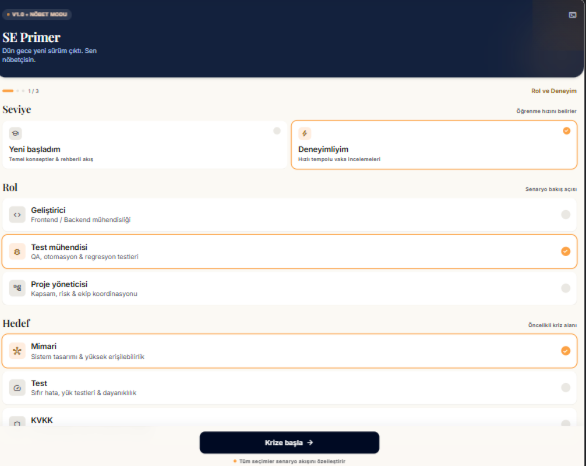
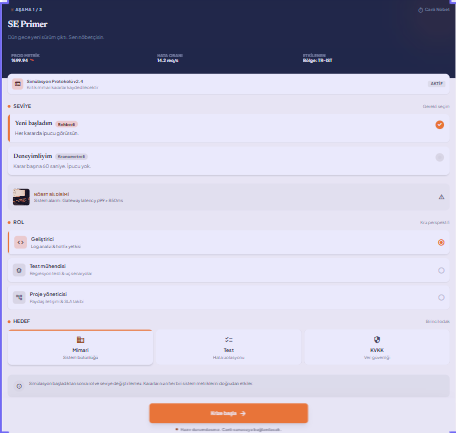
Adım 2: temiz Stitch ekranları (giriş, karar, iyi ve kötü son)

diff --git a/tasarim/duzeltme_istemleri.md b/tasarim/duzeltme_istemleri.md
@@ -1,0 +1,19 @@
+# Stitch Düzeltme İstemleri (spec'e uyum)
+
+Her istemi Stitch'te ilgili ekran seçiliyken ayrı ayrı gönder. Önce 1. ekran, sonra 2 ve 3.
+
+## 1. Giriş ekranı
+
+> Edit the onboarding screen to match this spec exactly. Keep the navy hero, title "SE Primer" and subtitle "Dün gece yeni sürüm çıktı. Sen nöbetçisin." Remove all extra descriptions and icons. Question groups with exactly these options: "Seviye": "Yeni başladım" (subtitle: "Her kararda ipucu görürsün."), "Deneyimliyim" (subtitle: "Karar başına 60 saniye. İpucu yok."). "Rol": "Geliştirici", "Test mühendisi", "Proje yöneticisi" (no subtitles). "Hedef": "Mimari", "Test", "KVKK" (no subtitles). Bottom button "Krize başla". All UI text in Turkish.
+
+## 2. Karar sahnesi
+
+> Edit the decision screen to match this spec exactly. Remove time estimates ("Tahmini süre"), risk badges ("Yüksek Risk"), the "Vaka Danışmanı" label and any extra metrics or text not listed here. Top bar: clock "08:07", stepper "Karar 1 / 3", chips "Sistem: ayakta" and "Veri: güvende". Scenario card: "Dün gece yeni sürüm çıktı. 300 hasta bekliyor." Amber label "KARAR 1 · MİMARİ", question "Canlı sistem çöktü. Ne yaparsın?". Two option cards with exactly these labels and no extra text: "A) Eski sürüme geri dön" and "B) Canlıda yama yap". Tutor card titled "Tutor", with the message "Geri dönmeden önce veritabanı şemasının değişip değişmediğini nasıl anlarsın?" and input "Tutora bir soru sor…". Bottom snackbar "Geri al" with a 3-second countdown bar. All UI text in Turkish.
+
+## 3a. Sonuç: iyi son
+
+> Edit the good ending screen to match this spec exactly. Remove points (+40, +50), the "Kazanılan Yetkinlik" card, all metrics (erişilebilirlik, veri kaybı, KVKK uyumu), the simulation evaluation, incident codes and timelines. Keep only: light blue banner (#E3EEF9) with blue border (#2B6CB0), large amber clock "08:25", text "Sistem ayakta, veri güvende", three summary chips "Mimari: Geri dönüldü", "Test: Kısa test koşuldu", "KVKK: Maskelendi", reflection text "Kararların birbirini nasıl etkilediğini düşün.", buttons "Yeniden oyna" and "Kararları gözden geçir", small note "Bu oturumda kayıt tutulmaz." All UI text in Turkish.
+
+## 3b. Sonuç: kötü son
+
+> Edit the bad ending screen to match this spec exactly. Remove points, metrics, the simulation evaluation, learning cards, timelines and incident codes. Keep only: rust-tinted banner (#FBE9DC) with rust border (#B5532A), label "Oyun bitti", text "Sistem ayakta ama KVKK ihlali", a short 2-3 sentence explanation of which rule caused the ending, the three decision chips with the violating decision outlined in red, buttons "Yeniden oyna" and "Kararları gözden geçir", small note "Bu oturumda kayıt tutulmaz." All UI text in Turkish.

diff --git a/tasarim/yeni_istemler.md b/tasarim/yeni_istemler.md
@@ -1,0 +1,20 @@
+# Stitch: Sırayla Yapıştırılacak İstemler (temiz proje)
+
+Proje: https://stitch.withgoogle.com/projects/7932773596753347456
+Giriş ekranı zaten hazır. Aşağıdakileri sırayla, her birini gönderip ekran oluşmasını bekleyerek yapıştır. Her istem tek ekran üretir.
+
+## 2. İstem: Karar sahnesi
+
+Create exactly ONE more mobile screen (390x844) titled "Karar Sahnesi", same design system, no other screens. Navy top bar with clock "08:07", stepper "Karar 1 / 3", chips "Sistem: ayakta" (green check) and "Veri: güvende" (blue lock). Scenario card: "Dün gece yeni sürüm çıktı. 300 hasta bekliyor." Amber label "KARAR 1 · MİMARİ", question "Canlı sistem çöktü. Ne yaparsın?". Two large option cards with exactly these labels and no extra text: "A) Eski sürüme geri dön" and "B) Canlıda yama yap". Tutor card titled "Tutor" with the message "Geri dönmeden önce veritabanı şemasının değişip değişmediğini nasıl anlarsın?" and input "Tutora bir soru sor…". Bottom snackbar "Geri al" with a 3-second countdown bar. No time estimates, no risk badges, no extra metrics. Warm off-white background, amber accent, navy top bar. All UI text in Turkish.
+
+## 3a. İstem: İyi son
+
+Create exactly ONE more mobile screen (390x844) titled "Sonuç İyi", same design system, no other screens. Light blue banner (#E3EEF9) with blue border (#2B6CB0). Large amber clock "08:25". Text "Sistem ayakta, veri güvende". Three summary chips: "Mimari: Geri dönüldü", "Test: Kısa test koşuldu", "KVKK: Maskelendi". Reflection text "Kararların birbirini nasıl etkilediğini düşün.". Primary button "Yeniden oyna", secondary button "Kararları gözden geçir". Small note "Bu oturumda kayıt tutulmaz.". No points, no metrics, no achievement cards, no incident codes, no timelines. Warm off-white background, serif headline, sans-serif body. All UI text in Turkish.
+
+## 3b. İstem: Kötü son
+
+Create exactly ONE more mobile screen (390x844) titled "Sonuç Kötü", same design system, no other screens. Rust-tinted banner (#FBE9DC) with rust border (#B5532A). Label "Oyun bitti". Text "Sistem ayakta ama KVKK ihlali". A 2-3 sentence explanation of which rule caused the ending. Three decision chips "Mimari: Geri dönüldü", "Test: Kısa test koşuldu", "KVKK: Logu olduğu gibi atıldı", with the KVKK chip outlined in red. Primary button "Yeniden oyna", secondary button "Kararları gözden geçir". Small note "Bu oturumda kayıt tutulmaz.". No points, no metrics, no achievement cards, no incident codes, no timelines. Warm off-white background, serif headline, sans-serif body. All UI text in Turkish.
+
+---
+
+Her ekran oluştuktan sonra: tam boy aç, ekran görüntüsünü al ve adını şöyle kaydet: `2-karar.png`, `3a-iyi-son.png`, `3b-kotu-son.png`.
